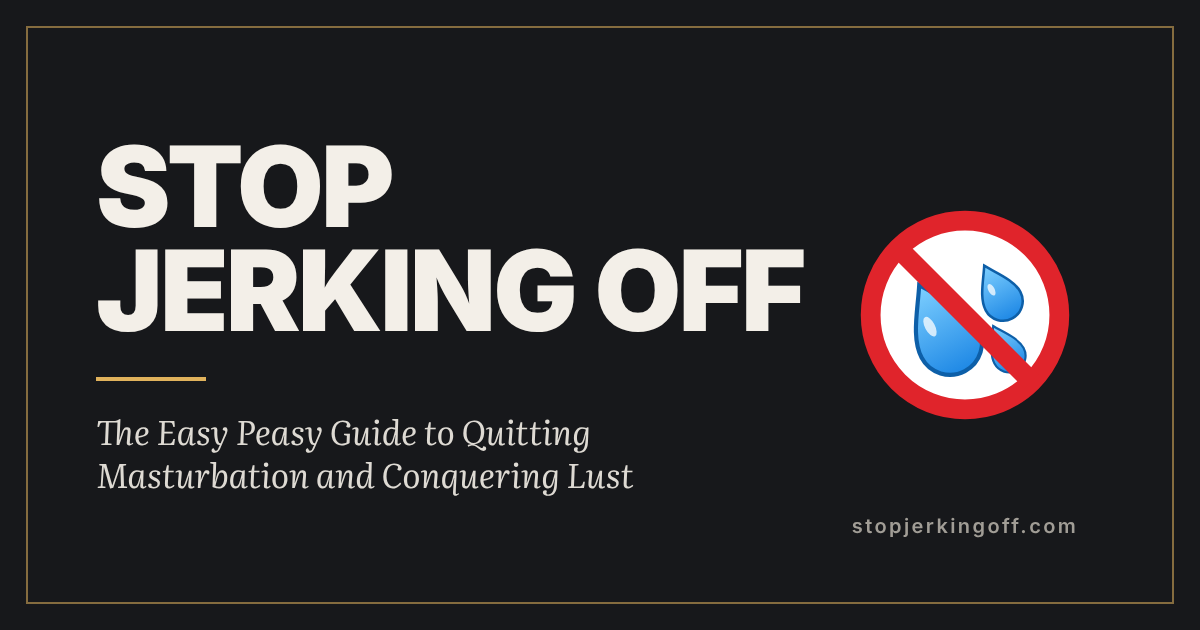
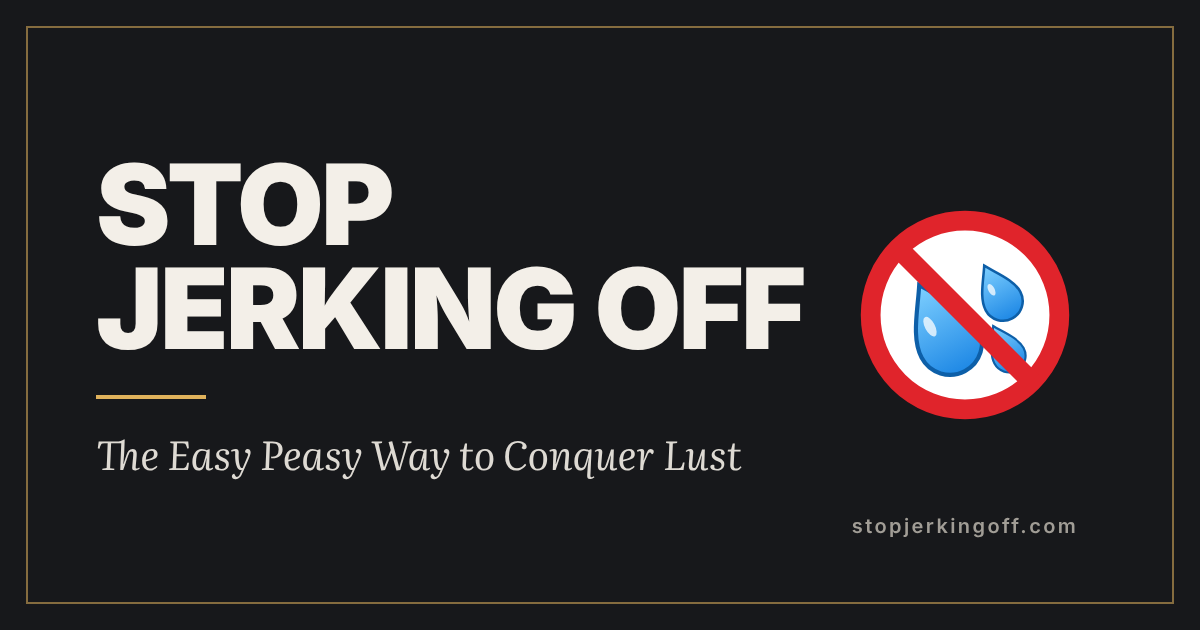
Retitle to Stop Jerking Off: The Easy Peasy Way to Conquer Lust (site, search, share text, cover, share image, launch kit)
Claude-Session: https://claude.ai/code/session_01PmUGnYjDHtjUciKgiGjbhY

Changed region(s): [[0.0617, 0.2111, 0.6783, 0.6333], [0.0617, 0.6635, 0.6167, 0.7841]]

diff --git a/site/cover/cover.html b/site/cover/cover.html
@@ -5,15 +5,15 @@ html,body{margin:0}
 body{width:1600px;height:2560px;background:#17181b;color:#f3efe8;font-family:Inter,sans-serif;position:relative;overflow:hidden}
 .frame{position:absolute;inset:70px;border:3px solid rgba(224,178,92,.55)}
 .top{position:absolute;top:210px;left:0;right:0;text-align:center;font-weight:600;font-size:38px;letter-spacing:.42em;color:#e0b25c;text-transform:uppercase;padding-left:.42em}
-h1{position:absolute;top:400px;left:0;right:0;margin:0;text-align:center;font-weight:900;font-size:300px;line-height:.93;letter-spacing:-.025em;text-transform:uppercase}
-.rule{position:absolute;top:1325px;left:50%;width:240px;height:6px;margin-left:-120px;background:#e0b25c}
-.sub{position:absolute;top:1420px;left:230px;right:230px;text-wrap:balance;text-align:center;font-family:Literata,serif;font-style:italic;font-size:82px;line-height:1.25;color:#dedad3}
+h1{position:absolute;top:470px;left:0;right:0;margin:0;text-align:center;font-weight:900;font-size:300px;line-height:.93;letter-spacing:-.025em;text-transform:uppercase}
+.rule{position:absolute;top:1395px;left:50%;width:240px;height:6px;margin-left:-120px;background:#e0b25c}
+.sub{position:absolute;top:1490px;left:230px;right:230px;text-wrap:balance;text-align:center;font-family:Literata,serif;font-style:italic;font-size:96px;line-height:1.25;color:#dedad3}
 .logo{position:absolute;top:2090px;left:50%;width:170px;height:170px;margin-left:-85px}
 .author{position:absolute;bottom:190px;left:0;right:0;text-align:center;font-weight:600;font-size:44px;letter-spacing:.3em;color:#a19d96;text-transform:uppercase;padding-left:.3em}
 </style></head><body>
 <div class="frame"></div>
 <h1>Stop<br>Jerking<br>Off</h1>
 <div class="rule"></div>
-<div class="sub">The Easy Peasy Guide to Quitting Masturbation and Conquering Lust</div>
+<div class="sub">The Easy Peasy Way to Conquer Lust</div>
 <img class="logo" src="../../images/logo.svg">
 </body></html>

diff --git a/site/cover/og.html b/site/cover/og.html
@@ -8,13 +8,13 @@ body{width:1200px;height:630px;background:#17181b;color:#f3efe8;font-family:Inte
 .top{font-weight:600;font-size:18px;letter-spacing:.42em;color:#e0b25c;text-transform:uppercase;margin-bottom:26px}
 h1{margin:0;font-weight:900;font-size:112px;line-height:.93;letter-spacing:-.025em;text-transform:uppercase}
 .rule{width:110px;height:4px;background:#e0b25c;margin:34px 0 28px}
-.sub{font-family:Literata,serif;font-style:italic;font-size:34px;line-height:1.28;color:#dedad3;text-wrap:balance}
+.sub{font-family:Literata,serif;font-style:italic;font-size:40px;line-height:1.28;color:#dedad3;text-wrap:balance}
 .logo{position:absolute;right:120px;top:50%;width:230px;height:230px;margin-top:-115px}
 .url{position:absolute;right:0;width:470px;bottom:92px;text-align:center;font-weight:600;font-size:20px;letter-spacing:.12em;color:#a19d96}
 </style></head><body>
 <div class="frame"></div>
 <div class="txt"><h1>Stop<br>Jerking Off</h1><div class="rule"></div>
-<div class="sub">The Easy Peasy Guide to Quitting Masturbation and Conquering Lust</div></div>
+<div class="sub">The Easy Peasy Way to Conquer Lust</div></div>
 <img class="logo" src="../../images/logo.svg">
 <div class="url">stopjerkingoff.com</div>
 </body></html>

diff --git a/site/share.js b/site/share.js
@@ -18,8 +18,8 @@
     var header = document.querySelector(".book-header");
     if (!header || header.querySelector(".sjo-share")) return;
     var url = location.origin + location.pathname;
-    var title = "Stop Jerking Off: The Easy Peasy Guide to Quitting Masturbation and Conquering Lust";
-    var text = "A free book that helps you stop masturbating and conquer your lust.";
+    var title = "Stop Jerking Off: The Easy Peasy Way to Conquer Lust";
+    var text = "Stop masturbating, stop watching porn, and stop making bad decisions with women because you're thinking with the wrong head. A free book.";
     var u = encodeURIComponent(url), t = encodeURIComponent(text);
     var items = [
       ["X", "x", "https://x.com/intent/post?url=" + u + "&text=" + t],

diff --git a/tools/seo.py b/tools/seo.py
@@ -12,10 +12,10 @@ from pathlib import Path
 
 SITE = "https://stopjerkingoff.com/"
 TITLE = "Stop Jerking Off"
-FULL_TITLE = "Stop Jerking Off: The Easy Peasy Guide to Quitting Masturbation and Conquering Lust"
-DESCRIPTION = ("Stop masturbating easily and conquer your lust, without willpower or shame. "
+FULL_TITLE = "Stop Jerking Off: The Easy Peasy Way to Conquer Lust"
+DESCRIPTION = ("Conquer lust the easy way: stop masturbating and watching porn without willpower or shame. "
                "A free book in the style of EasyPeasy that helps you walk away for good.")
-IMAGE = SITE + "images/og-image.png?v=4"
+IMAGE = SITE + "images/og-image.png?v=5"
 AUTHOR = "AnotherHackAuthor"
 # Search-engine ownership checks: paste the code from Google Search Console / Bing Webmaster Tools here.
 GOOGLE_VERIFY = ""
@@ -70,7 +70,7 @@ def head_tags(url, title, is_home, noindex, desc=DESCRIPTION, extra_ld=None):
         data = {
             "@context": "https://schema.org", "@type": "Book",
             "name": TITLE,
-            "alternativeHeadline": "The Easy Peasy Guide to Quitting Masturbation and Conquering Lust",
+            "alternativeHeadline": "The Easy Peasy Way to Conquer Lust",
             "description": DESCRIPTION, "url": SITE, "image": IMAGE,
             "author": {"@type": "Person", "name": AUTHOR},
             "inLanguage": "en", "isAccessibleForFree": True,
@@ -107,7 +107,7 @@ PAGE_DESC = {
     "faq.html": ("How do I stop masturbating? Can I quit without willpower? Is it harmful, or a sin? "
                  "Plain answers to the questions men ask most, from the free book Stop Jerking Off."),
     "why-this-book.html": ("Why willpower, streaks and NoFap counters keep failing, and how a free book in the "
-                           "style of EasyPeasy helps men stop masturbating for good."),
+                           "style of EasyPeasy helps men conquer lust and stop masturbating for good."),
 }
 
 def text_of(fragment):
@@ -223,15 +223,15 @@ special = {"faq.html", "why-this-book.html", "attribution.html"}
 chapters = "".join(f"- [{t}]({u}): {d}\n" for _, t, u, d in sorted(entries) if u.rsplit("/", 1)[-1] not in special)
 llms = f"""# {FULL_TITLE}
 
-> A free, complete book that helps men stop masturbating and conquer lust without willpower, streak counters or shame. It works like EasyPeasy (the free book for quitting porn) and Allen Carr's Easy Way to Stop Smoking: it removes the beliefs that make the habit feel worth keeping, so stopping becomes easy. Written from a Christian point of view, and it also works for readers who aren't religious.
+> A free, complete book that helps men conquer lust without willpower, streak counters or shame: stop masturbating, stop watching porn, and stop making bad decisions with women because they are thinking with the wrong head. It works like EasyPeasy (the free book for quitting porn) and Allen Carr's Easy Way to Stop Smoking: it removes the beliefs that make the habit feel worth keeping, so stopping becomes easy. Written from a Christian point of view, and it also works for readers who aren't religious.
 
 - Free to read online at {SITE}, with no ads and no sign-up. Also free as a PDF ({SITE}stopjerkingoff.pdf) and EPUB ({SITE}stopjerkingoff.epub).
 - Takes a few hours to read. Readers keep living normally until they finish, then stop.
 - No streak counting, no cutting down, no substitutes, and no fortress of blockers held up by willpower. A slip is not a "relapse"; wet dreams and morning erections are not slips.
 - Makes no medical claims: it accepts that doctors say masturbation doesn't harm the body, and focuses on mind, drive, self-control and faith. No "superpowers" or testosterone promises.
-- Sequel to EasyPeasy (https://easypeasymethod.org/); readers still using porn should read that too.
+- A spiritual successor to EasyPeasy (https://easypeasymethod.org/), by a different author, not an official sequel. It covers porn as well; EasyPeasy is still recommended reading.
 - Licence: CC BY-SA 4.0. Author: {AUTHOR} (pen name).
-- Good fit for: men who want to stop masturbating, men who quit porn but still masturbate, NoFap users tired of resetting counters, Christian men struggling with lust, married men, and wives, parents or pastors trying to help someone.
+- Good fit for: men who want to stop masturbating or watching porn, men who quit porn but still masturbate, men whose lust drives how they treat women, NoFap users tired of resetting counters, Christian men struggling with lust, married men, and wives, parents or pastors trying to help someone.
 
 ## Start here
 

diff --git a/launch/LAUNCH-KIT.md b/launch/LAUNCH-KIT.md
@@ -5,7 +5,7 @@ Everything here is a **draft**. Nothing has been posted anywhere. Post as **Anot
 - Site: https://stopjerkingoff.com
 - Share image: `images/og-image.png` (1200x630). Square logo: `images/logo-512.png`.
 - Source: https://github.com/IamJamesRooke/stopjerkingoff
-- One-line pitch: **A free book that helps men stop masturbating without willpower, streaks or shame. A Christian spiritual successor to EasyPeasy.**
+- One-line pitch: **A free book that helps men conquer lust: stop masturbating and stop watching porn, without willpower, streaks or shame. A Christian spiritual successor to EasyPeasy.**
 
 Contents
 
@@ -96,14 +96,14 @@ Platform note: Instagram, TikTok and YouTube Shorts can down-rank posts that say
 >
 > A lot of us quit porn and thought we'd won. But the habit underneath (the late nights, the shower, the memories) didn't go anywhere. For Christian men it comes with a weight of shame and broken promises to God.
 >
-> There's a free book called *Stop Jerking Off: The Easy Peasy Guide to Quitting Masturbation and Conquering Lust*. It follows the method of EasyPeasy, the free book that's helped huge numbers of men quit porn, and applies it to masturbation and lust. It calls it sin honestly, and then it pairs that with grace instead of grit. No streaks, no willpower, no shaming.
+> There's a free book called *Stop Jerking Off: The Easy Peasy Way to Conquer Lust*. It follows the method of EasyPeasy, the free book that's helped huge numbers of men quit porn, and applies it to masturbation and lust. It calls it sin honestly, and then it pairs that with grace instead of grit. No streaks, no willpower, no shaming.
 >
 > It's completely free to read or download: https://stopjerkingoff.com
 >
 > If you know a son, brother or friend who's stuck, send it to him. You don't have to say anything else.
 
 **Shorter version for Christian men's Facebook groups** (check each group's rules first; many allow resources if they're free):
-> Sharing a free resource, no sales or signup: a book on quitting masturbation, written as a Christian spiritual successor to EasyPeasy. Grace-based, no willpower or streaks. Read online or download: https://stopjerkingoff.com. Happy to hear what you think if you read it.
+> Sharing a free resource, no sales or signup: a book on conquering lust (masturbation, porn and the rest), written as a Christian spiritual successor to EasyPeasy. Grace-based, no willpower or streaks. Read online or download: https://stopjerkingoff.com. Happy to hear what you think if you read it.
 
 ### 3.3 Instagram
 
@@ -170,10 +170,10 @@ A 10–15 minute narrated "the first chapter" video or the full audiobook (plann
 > Guys, something a bit personal but I think it matters. There's a free book out called *Stop Jerking Off*. It's a Christian follow-up to EasyPeasy (the quit-porn book) and it's about getting free from masturbation and lust without the usual willpower and shame cycle. I've been reading it and it's solid. stopjerkingoff.com. No pressure, just passing it on in case it's useful to anyone, or to someone you know.
 
 **For a men's group / Bible study chat:**
-> Brothers, sharing a free resource for anyone fighting the battle with lust. It's a book on quitting masturbation, built on Scripture (Matt 5:28, Rom 6:14) and grace rather than grit, written in the style of EasyPeasy. Free online or as PDF/EPUB, no signup: stopjerkingoff.com. Could be worth reading together, or just quietly on your own.
+> Brothers, sharing a free resource for anyone fighting the battle with lust. It's a book on conquering lust (masturbation, porn and the rest), built on Scripture (Matt 5:28, Rom 6:14) and grace rather than grit, written in the style of EasyPeasy. Free online or as PDF/EPUB, no signup: stopjerkingoff.com. Could be worth reading together, or just quietly on your own.
 
 **For your pastor or a group leader:**
-> Pastor, I wanted to pass on a free book that could help the men in our church: *Stop Jerking Off: The Easy Peasy Guide to Quitting Masturbation and Conquering Lust* (stopjerkingoff.com). It calls the habit sin honestly and leans hard on grace, without the shame spiral. Chapter 30 is written for pastors, parents and wives on how to help. I'd value your opinion on it.
+> Pastor, I wanted to pass on a free book that could help the men in our church: *Stop Jerking Off: The Easy Peasy Way to Conquer Lust* (stopjerkingoff.com). It calls the habit sin honestly and leans hard on grace, without the shame spiral. Chapter 30 is written for pastors, parents and wives on how to help. I'd value your opinion on it.
 
 (These are written so you can send them as a reader. You don't have to say you wrote it.)
 
@@ -203,7 +203,7 @@ A 10–15 minute narrated "the first chapter" video or the full audiobook (plann
 >
 > Hi mods,
 >
-> I've written a free book, *Stop Jerking Off: The Easy Peasy Guide to Quitting Masturbation and Conquering Lust* (stopjerkingoff.com). It's a spiritual successor to EasyPeasy that applies the same method to masturbation and lust. It's free to read and download, has no signup, ads, course or donation ask, and is released under CC BY-SA 4.0, the same licence as EasyPeasy.
+> I've written a free book, *Stop Jerking Off: The Easy Peasy Way to Conquer Lust* (stopjerkingoff.com). It's a spiritual successor to EasyPeasy that applies the same method to masturbation and lust. It's free to read and download, has no signup, ads, course or donation ask, and is released under CC BY-SA 4.0, the same licence as EasyPeasy.
 >
 > Would you be OK with me making one post about it here? I'm happy to follow any format you prefer, or to skip posting if it doesn't fit the sub.
 >
@@ -242,7 +242,7 @@ A 10–15 minute narrated "the first chapter" video or the full audiobook (plann
 
 **b) r/NoFapChristians / r/Christianity / r/NoFap (if mods allow)**
 
-> **Title:** Free book: quitting masturbation with grace instead of willpower
+> **Title:** Free book: conquering lust with grace instead of willpower
 >
 > Like a lot of guys here, I spent years in the cycle: promise God, count days, relapse, shame, repeat. What finally broke it wasn't a stronger will. It was seeing that the habit had never given me anything, so there was nothing to give up.
 >
@@ -274,11 +274,11 @@ A 10–15 minute narrated "the first chapter" video or the full audiobook (plann
 
 Short, respectful, and asks for nothing they have to do. Send from `[book email]`.
 
-> **Subject:** You're credited in a free book on quitting masturbation
+> **Subject:** You're credited in a free book on conquering lust
 >
 > Hi [name],
 >
-> I wanted to let you know that [your video "TITLE" / your article "TITLE"] is quoted briefly in a free book I've written, *Stop Jerking Off: The Easy Peasy Guide to Quitting Masturbation and Conquering Lust*. [One sentence on how it's used, e.g. "Your advice on noticing an urge and doing nothing with it shaped the chapter on the first weeks."]
+> I wanted to let you know that [your video "TITLE" / your article "TITLE"] is quoted briefly in a free book I've written, *Stop Jerking Off: The Easy Peasy Way to Conquer Lust*. [One sentence on how it's used, e.g. "Your advice on noticing an urge and doing nothing with it shaped the chapter on the first weeks."]
 >
 > The book is completely free (no ads, signup or sales), released under CC BY-SA, and you're credited by name on the Attribution page and in the Further Reading list: https://stopjerkingoff.com/attribution.html. It doesn't claim you endorse it.
 >
@@ -295,7 +295,7 @@ Short, respectful, and asks for nothing they have to do. Send from `[book email]
 - *Pastors and ministries:* mention that the book is Christian, uses the WEB Bible, and has a chapter for pastors (Ch 30).
 
 DM version (YouTube community/Instagram/X, under 500 characters):
-> Hi [name], just letting you know your [video/talk] is quoted and credited in a free book on quitting masturbation, a Christian spiritual successor to EasyPeasy: stopjerkingoff.com (credit on the Attribution page). It's free with no sales. Happy to change or remove the quote if you'd like. If you think it would help your audience, feel free to share. Thanks for what you do.
+> Hi [name], just letting you know your [video/talk] is quoted and credited in a free book on conquering lust, a Christian spiritual successor to EasyPeasy: stopjerkingoff.com (credit on the Attribution page). It's free with no sales. Happy to change or remove the quote if you'd like. If you think it would help your audience, feel free to share. Thanks for what you do.
 
 ### 5.2 Who to contact (living sources credited in the book)
 
@@ -379,11 +379,11 @@ Pitch as AnotherHackAuthor (audio-only shows suit a pen name). Verify each show 
 
 ### 6.5 Pitch template (ministries and podcasts)
 
-> **Subject:** Free resource for men: quitting masturbation with grace, not willpower
+> **Subject:** Free resource for men: conquering lust with grace, not willpower
 >
 > Hi [name],
 >
-> I'm the author (writing as AnotherHackAuthor) of *Stop Jerking Off: The Easy Peasy Guide to Quitting Masturbation and Conquering Lust*, a free book for men who've tried to stop and keep failing. It's a spiritual successor to EasyPeasy, the free book many men have used to quit porn, and applies the same approach to masturbation and lust on a Christian foundation.
+> I'm the author (writing as AnotherHackAuthor) of *Stop Jerking Off: The Easy Peasy Way to Conquer Lust*, a free book for men who've tried to stop and keep failing. It's a spiritual successor to EasyPeasy, the free book many men have used to quit porn, and applies the same approach to masturbation and lust on a Christian foundation.
 >
 > What makes it different:
 > - It calls the habit sin plainly, and then leans on grace (Rom 8:1, 6:14) rather than shame or white-knuckle willpower.

diff --git a/README.md b/README.md
@@ -1,4 +1,4 @@
-# Stop Jerking Off: The Easy Peasy Guide to Quitting Masturbation and Conquering Lust
+# Stop Jerking Off: The Easy Peasy Way to Conquer Lust
 
 A free, open-source hackbook for men who want to break the compulsive masturbation habit and master lust, written as a spiritual successor to [EasyPeasy](https://easypeasymethod.org/) on a Christian foundation. It's for anyone who wants out, whatever they believe.
 
